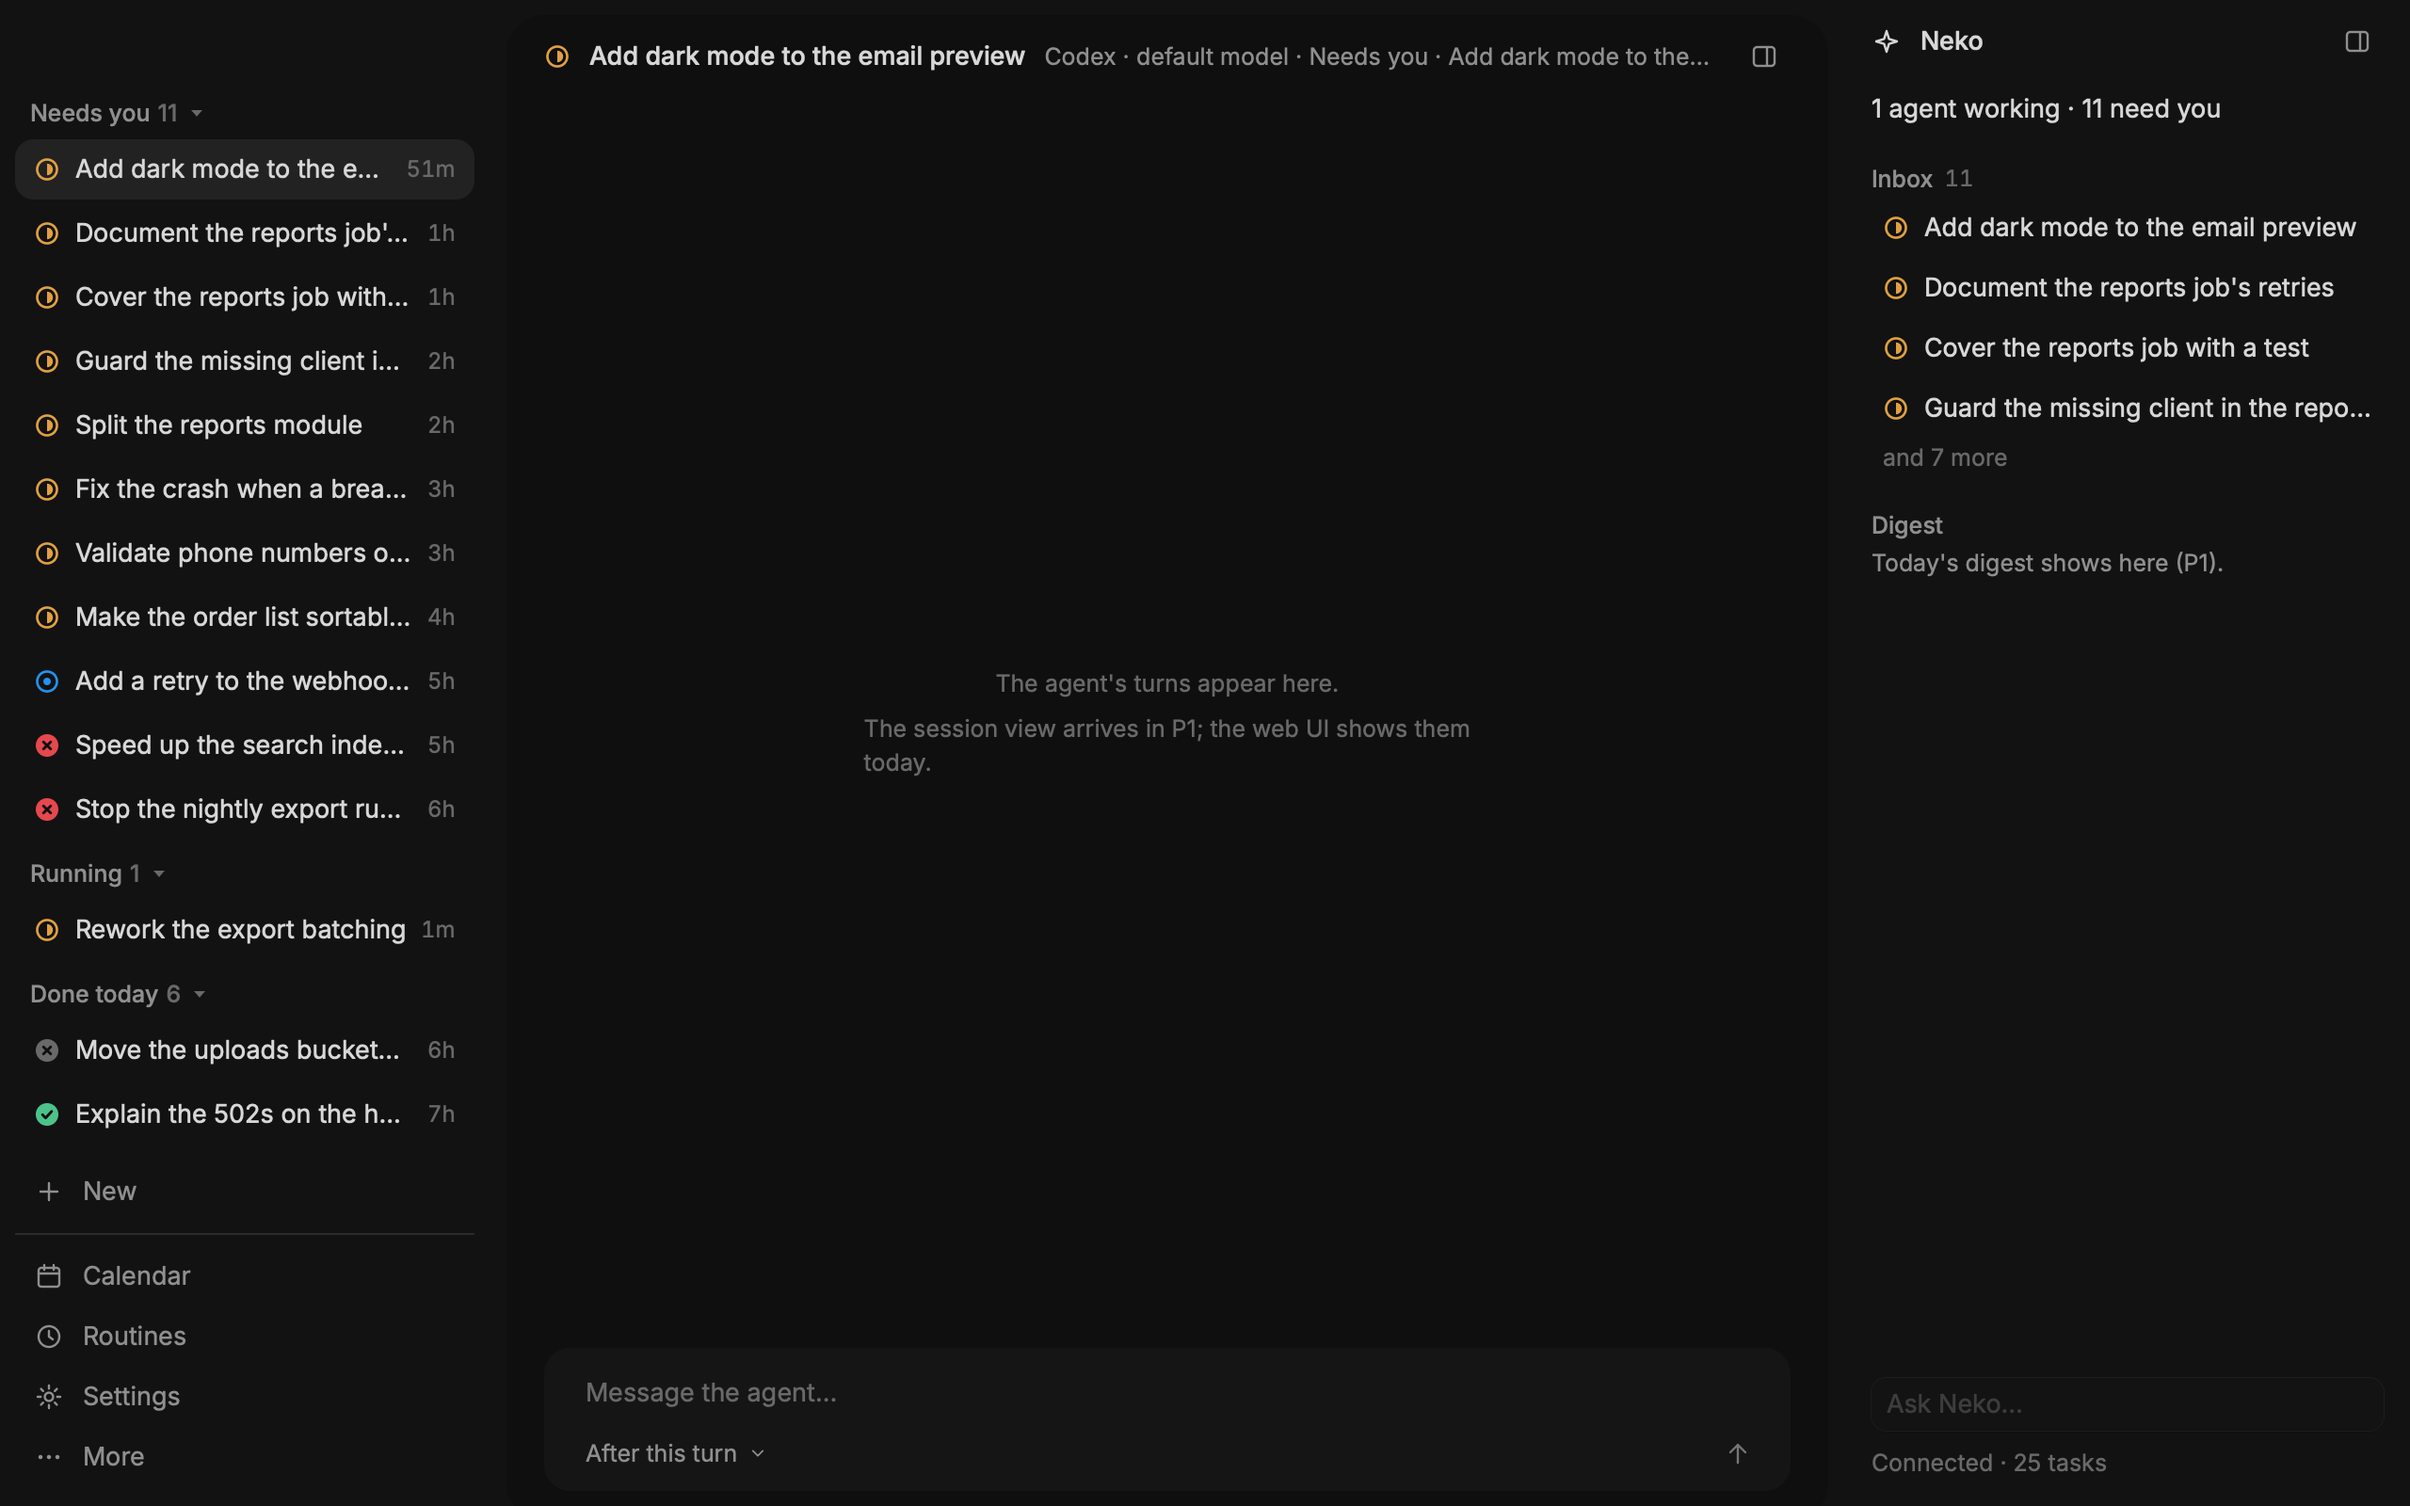
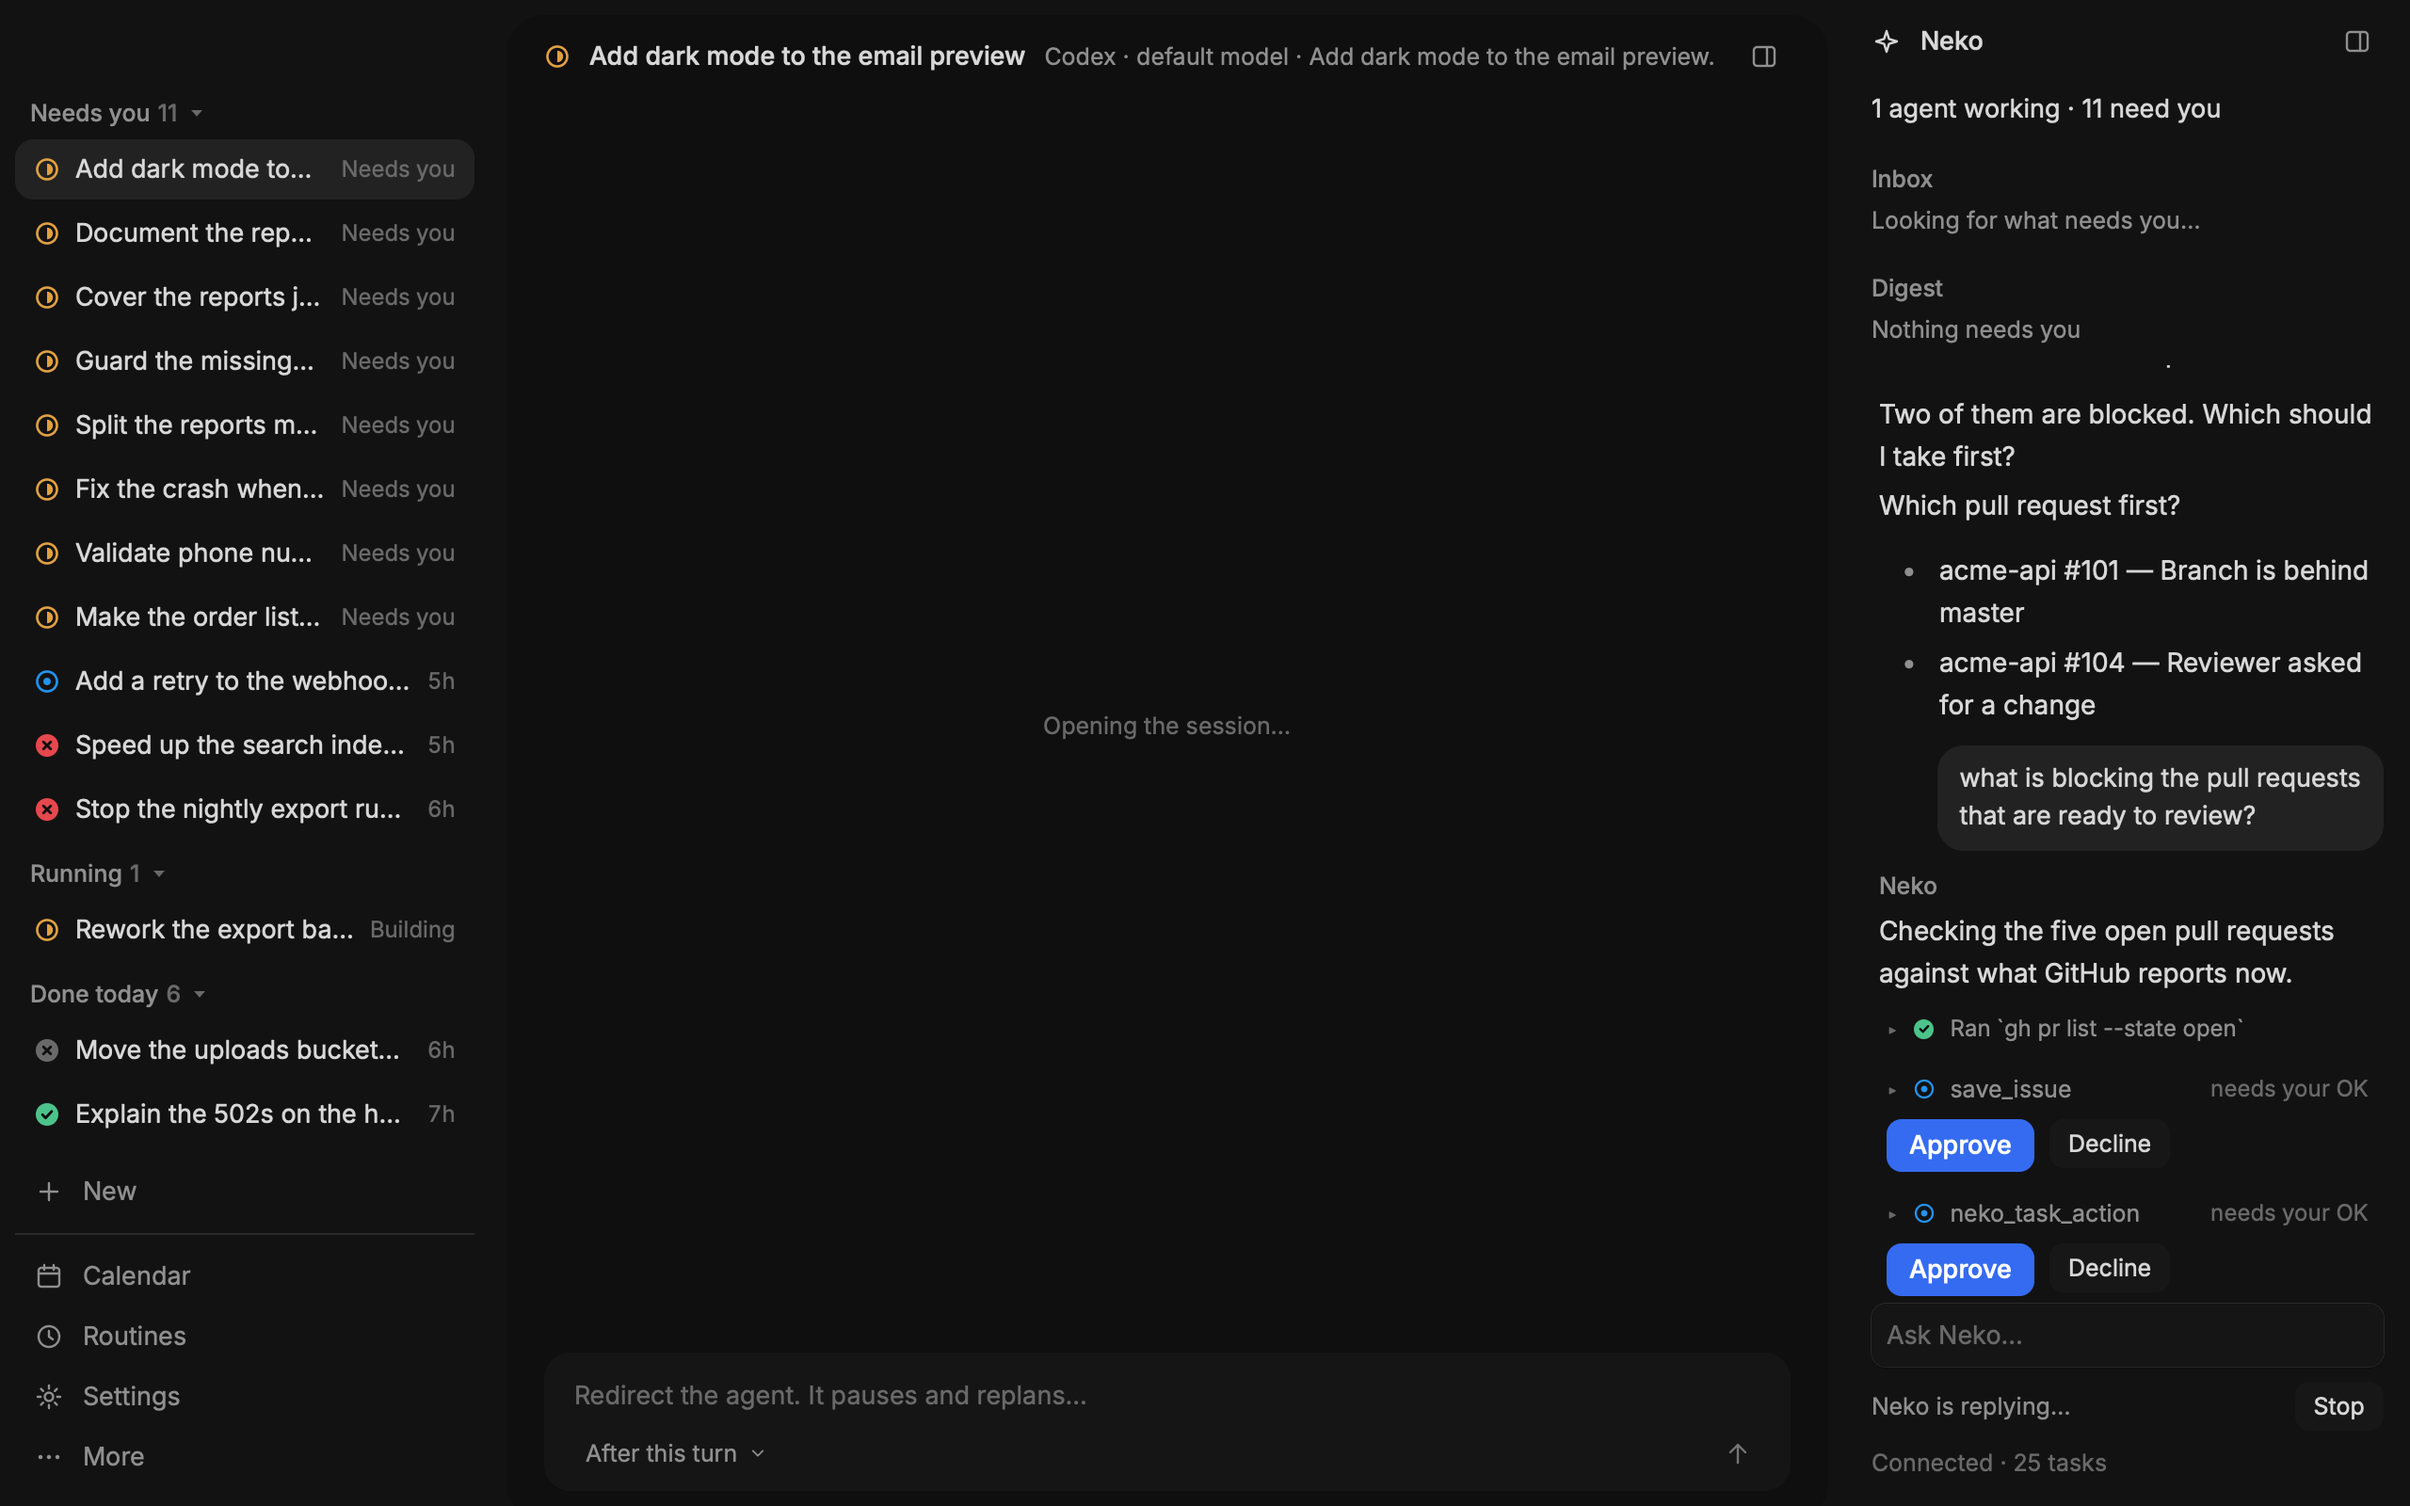
feat(rune): snapshots of every P1 state, harness snaps from the daemon's own rows, goal line not repeating the title

diff --git a/apps/neko-rune/src/view/neko.rs b/apps/neko-rune/src/view/neko.rs
@@ -204,8 +204,9 @@ fn body(s: &App, t: &Neko) -> El {
     top = top.child(text(crew_line(working, waiting)).key("crew").font(t.ty.row).color(t.text.base));
     top = top.child(inbox(s, t));
     top = top.child(digest(s, t));
-    let mut c = col().key("neko-body").w_full().grow(1.0).min_h(0.0).child(col().key("neko-scroll").w_full().max_h(420.0).scroll(ScrollSpec { stick_bottom: false }).child(top));
+    let mut c = col().key("neko-body").w_full().grow(1.0).min_h(0.0).child(col().key("neko-scroll").w_full().max_h(480.0).scroll(ScrollSpec { stick_bottom: false }).child(top));
     if let Some(conv) = conversation(s, t) {
+        c = c.child(row().key("neko-divider").w_full().h(1.0).fill(t.surface.border));
         c = c.child(col().key("neko-chat-scroll").w_full().grow(1.0).min_h(0.0).px(14.0).pb(8.0).scroll(ScrollSpec { stick_bottom: true }).child(conv));
     }
     c

diff --git a/apps/neko-rune/src/lib.rs b/apps/neko-rune/src/lib.rs
@@ -54,6 +54,13 @@ fn init() -> App {
             app.call(link::Call::Unseen);
             app.call(link::Call::Inbox);
             app.call(link::Call::Digest);
+            // The daemon's own times, so "5m" counts from the newest change in it.
+            if let Some(newest) = app.summary.as_ref().and_then(|m| m.tasks.iter().map(|t| t.updated_at_ms).max()) {
+                app.now_ms = newest + 60_000;
+                app.selected = app.summary.as_ref().and_then(|m| groups::first_session(m, app.now_ms));
+                app.wanted.set(app.selected.as_deref());
+                app.call(link::Call::Refresh);
+            }
         }
         app
     } else {

diff --git a/apps/neko-rune/src/view/session.rs b/apps/neko-rune/src/view/session.rs
@@ -47,7 +47,9 @@ fn top_line(s: &App, task: &TaskRow, t: &Neko) -> El {
     if let Some(m) = s.summary.as_ref().filter(|m| !m.runtime.is_empty()) {
         meta.push(m.runtime.clone());
     }
-    if !task.goal.is_empty() {
+    // The goal's first line, unless it only says the title again.
+    let plain = |s: &str| s.trim().trim_end_matches(|c: char| c == '.' || c == ':').to_lowercase();
+    if !task.goal.is_empty() && plain(&task.goal) != plain(&task.title) {
         meta.push(task.goal.clone());
     }
     band(t)

diff --git a/apps/neko-rune/src/work.rs b/apps/neko-rune/src/work.rs
@@ -600,6 +600,8 @@ impl App {
                     Call::CreateTask { .. } => created = self.created_task(&summary),
                     _ => {}
                 }
+                // An answer from the daemon proves the link is up.
+                self.link = crate::app::LinkState::Live;
                 self.apply_summary(summary);
                 if let Some(id) = created {
                     self.after_created(&id);
